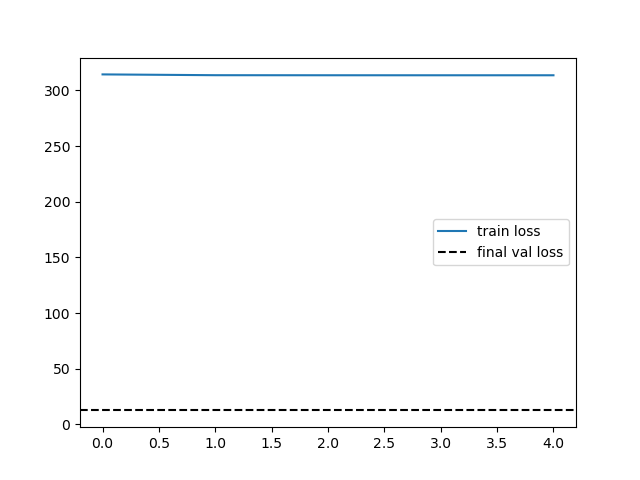
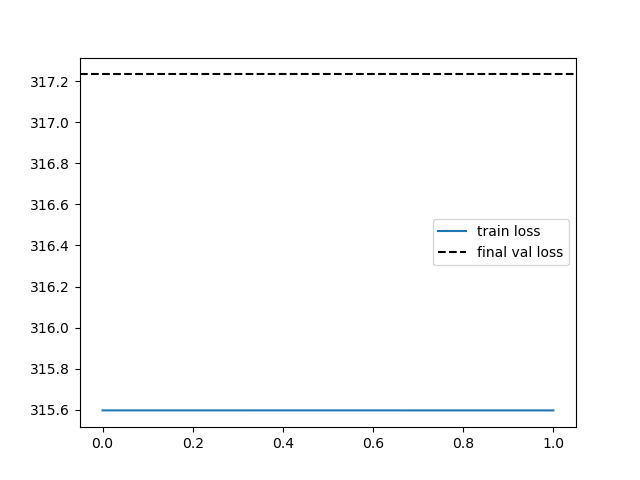
added SimpleEpiNet

diff --git a/seq2contact.py b/seq2contact.py
@@ -15,16 +15,19 @@ import sys
 from utils import *
 
 class Sequences2Contacts(Dataset):
-    def __init__(self, dir, size_y = 1024, toxx = False):
+    def __init__(self, dir, n = 1024, k = 2, toxx = False):
         super(Sequences2Contacts, self).__init__()
         self.dir = dir
+        self.n = n
+        self.k = k
         self.toxx = toxx
         self.paths = sorted(make_dataset(dir))
 
     def __getitem__(self, index):
         y_path = self.paths[index] + '/data_out/contacts.txt'
-        y = np.loadtxt(y_path)[:1024, :1024] # TODO delete this later
-        y = y.reshape(1,1024,1024)
+        y = np.loadtxt(y_path)[:self.n, :self.n] # TODO delete this later
+        y = y.reshape(1, self.n, self.n)
+        y /= np.max(y)
 
         if self.toxx:
             x_path = self.paths[index] + '/xx.npy'
@@ -32,13 +35,14 @@ class Sequences2Contacts(Dataset):
         else:
             x_path = self.paths[index] + '/x.txt'
             x = np.loadtxt(x_path)
+            x = x.reshape(1, self.n, self.k)
 
         return torch.Tensor(x), torch.Tensor(y)
 
     def __len__(self):
         return len(self.paths)
 
-def getDataloaders(dataset, batchSize = 8):
+def getDataloaders(dataset, batchSize = 64):
     N = len(dataset)
     trainN = math.floor(N * 0.7)
     valN = math.floor(N * 0.2)
@@ -58,25 +62,26 @@ def getDataloaders(dataset, batchSize = 8):
     return train_dataloader, val_dataloader, test_dataloader
 
 def train(train_loader, model, optimizer, criterion, device, save_location,
-        epochs, save_mod = 5, print_mod = 100):
+        epochs, save_mod = 5, print_mod = 2):
     train_loss = []
     val_loss = []
     for e in range(epochs):
         model.train()
         avg_loss = 0
         for t, (x,y) in enumerate(train_loader):
-            print(t)
             x = x.to(device)
+            print(x.shape)
             y = y.to(device)
+            print(y.shape)
             optimizer.zero_grad()
             yhat = model(x)
             loss = criterion(yhat, y)
             avg_loss += loss.item()
             loss.backward()
             optimizer.step()
-            if t % print_mod == 0:
-                print('Epoch %d, Iteration %d, loss = %.4f' % (e, t, loss.item()))
-        if e % save_mod == 0:
+        if e % print_mod == 0:
+            print('Epoch %d, loss = %.4f' % (e, loss.item()))
+        if (e + 1) % save_mod == 0:
             torch.save({'model_state_dict': model.state_dict(),
                         'epoch': e,
                         'optimizer_state_dict': optimizer.state_dict(),
@@ -109,14 +114,15 @@ def test(loader, model, optimizer, criterion, device):
 
 def main(dir, epochs = 1000, device = 'cuda:0', k = 2):
     t0 = time.time()
-    seq2ContactData = Sequences2Contacts(dir, toxx = True)
+    seq2ContactData = Sequences2Contacts(dir, toxx = False)
     train_dataloader, val_dataloader, test_dataloader = getDataloaders(seq2ContactData)
 
     if device == 'cuda:0' and not torch.cuda.is_available():
         print('Warning: falling back to cpu')
         device = 'cpu'
 
-    model = UNet(nf_in = 2*k, nf_out = 1)
+    # model = UNet(nf_in = 2*k, nf_out = 1)
+    model = SimpleEpiNet(1024, 1, 2)
     model.to(device)
 
     optimizer = optim.Adam(model.parameters(), lr = 1e-4) # default beta TODO
@@ -138,4 +144,4 @@ def main(dir, epochs = 1000, device = 'cuda:0', k = 2):
 if __name__ == '__main__':
     clusterdir = '../../../project2/depablo/erschultz/dataset_04_06_21'
     mydir = 'dataset_04_06_21'
-    main(clusterdir, 5)
+    main(clusterdir, 50)

diff --git a/neural_net_utils/networks.py b/neural_net_utils/networks.py
@@ -103,6 +103,7 @@ class VAE(nn.Module):
 class DeepC(nn.Module):
     '''Roughly based on https://doi.org/10.1038/s41592-020-0960-3'''
     def __init__(self, n, w, k, y_len):
+        super(DeepC, self).__init__()
         self.n = n
         self.w = w
         self.k = k
@@ -124,26 +125,31 @@ class DeepC(nn.Module):
         x = self.conv1(input)
         x = x.view()
 
-class simpleEpiNet(nn.Module):
+class SimpleEpiNet(nn.Module):
     def __init__(self, n, w, k):
+        super(SimpleEpiNet, self).__init__()
         self.n = n
         self.w = w
+        assert w <= n, "w can be at most n"
+        assert w % 2 != 0, "w must be odd"
         self.k = k
 
         # Convolution
-        self.conv1 = ConvBlock(1, k*2, (w, k), padding = w-1)
-        self.conv2 = ConvBlock(1, k*2, (w, k*2), padding = w-1)
-        self.conv2 = ConvBlock(1, k, (w, k*2), padding = w-1)
+        self.conv1 = ConvBlock(1, k*2, (w, k), padding = (w//2, 0))
+        self.conv2 = ConvBlock(1, k*2, (w, k*2), padding = (w//2, 0))
+        self.conv3 = ConvBlock(1, k, (w, k*2), padding = (w//2, 0))
+        self.act = nn.Sigmoid()
 
 
     def forward(self, input):
         x = self.conv1(input)
-        x = x.view(-1, 1, n, k*2)
-        x = self.conv2(input)
-        x = x.view(-1, 1, n, k*2)
-        x = self.conv3(input)
-        x = x.view(-1, 1, n, k)
+        x = x.view(-1, 1, self.n, self.k*2)
+        x = self.conv2(x)
+        x = x.view(-1, 1, self.n, self.k*2)
+        x = self.conv3(x)
+        x = x.view(-1, 1, self.n, self.k)
 
-        output = F.sigmoid
+        output = torch.einsum('...ij, ...kj->...ik', x, x)
+        output = self.act(output)
 
         return output

diff --git a/utils.py b/utils.py
@@ -21,3 +21,35 @@ def x2xx(x):
             xx[:, i, j] = np.append(x[i], x[j])
             xx[:, j, i] = np.append(x[j], x[i])
     return xx
+
+@jit
+def diagonal_normalize(y, d = 1):
+    prob = generateProbDist(y, d)
+    for i in range(len(y)):
+        for j in range(i + 1):
+            distance = y[i,j] - y[j,i]
+            pos = int(distance / d) # need to guarantee int
+            y[i,j] /= prob[pos]
+            y[j,i] = y[i,j]
+
+    return y
+
+@jit
+def generateProbDist(y, d):
+    n = len(y)
+    distances = range(0, n + d, d)
+    observed = np.zeros(len(distances))
+    possible = np.zeros(len(distances))
+    for pos, distance in enumerate(distances):
+        possible[pos] = (n - distance + d) * d
+    for i in range(n):
+        for j in range(i + 1):
+            distance = y[i,j] - y[j,i]
+            pos = int(distance / d) # need to guarantee int
+            observed[pos] += y[i,j] # = y[j,i]
+
+    prob = np.divide(observed, possible)
+    return prob
+
+if __name__ == '__main__':
+    main()

diff --git a/preprocess_data.py b/preprocess_data.py
@@ -16,7 +16,12 @@ def main(dir):
         xx = x2xx(x)
         np.save(path + '/xx.npy', xx.astype(np.int8))
 
+        # y_path = path + '/data_out/contacts.txt'
+        # y = np.loadtxt(y_path)[:1024, :1024] # TODO delete this later
+        # y = diagonal_normalize(y)
+        # np.savetxt(path + '/y.txt', y)
+
 if __name__ == '__main__':
-    clusterdir = '../../../project2/depablo/erschultz/dataset_04_06_21'
+    clusterdir = '../../../project2/depablo/skyhl/dataset_04_06_21'
     mydir = 'dataset_04_06_21'
     main(clusterdir)
